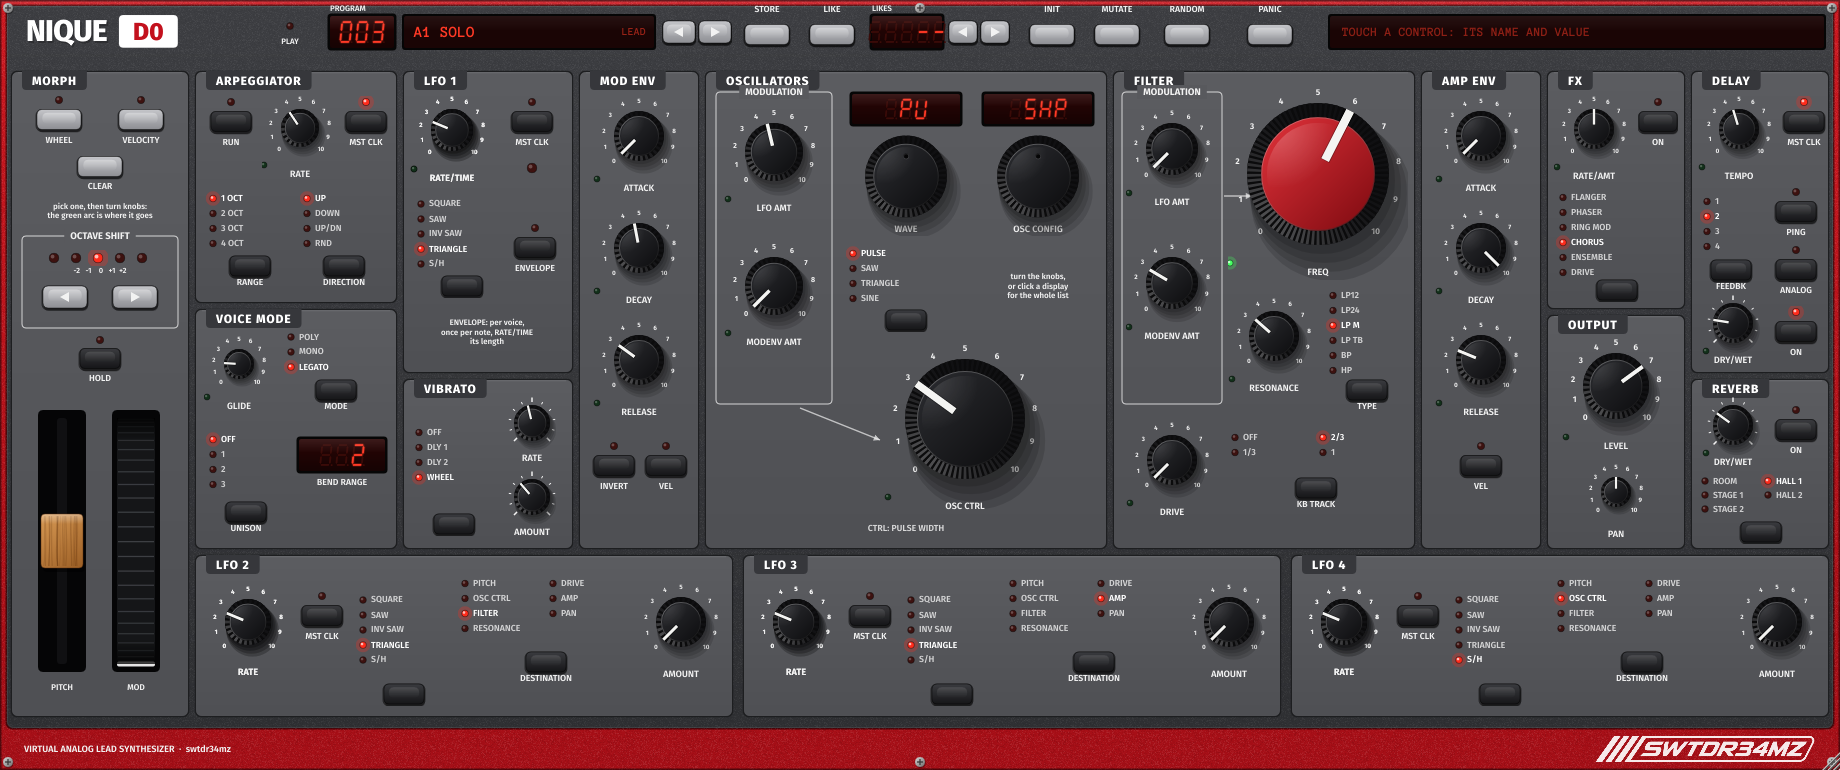
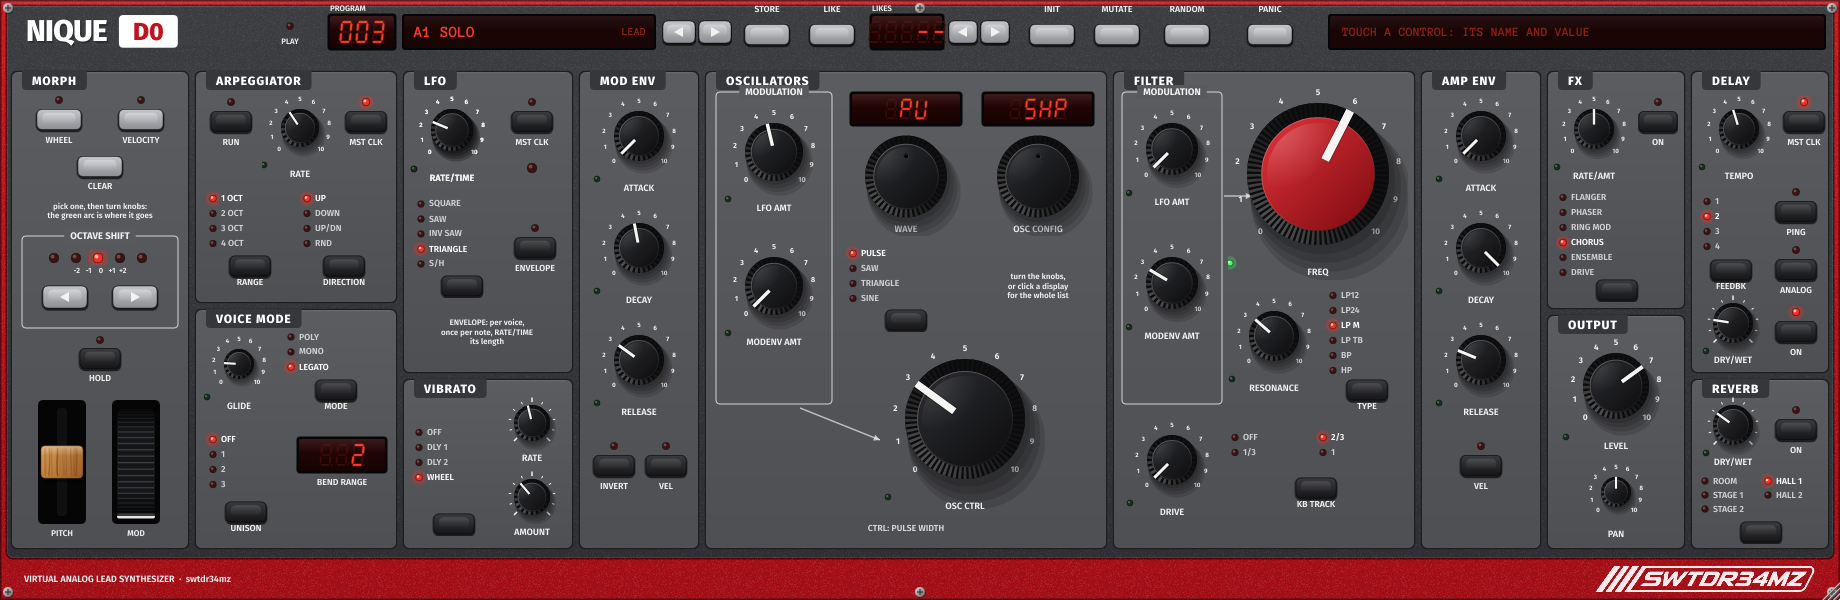
One LFO again, as on the instrument
LFO 2, 3, 4 and their row on the panel are gone (Tom's call); the panel is 1840 x 600
again. WOBBLE BASS and MOVING PAD now move the filter with the LFO.

Claude-Session: https://claude.ai/code/session_019gwqiLx9vhUv2R9E4RVmAS

diff --git a/dsp/engine.cpp b/dsp/engine.cpp
@@ -178,11 +178,6 @@ struct Impl {
     /* the LFO, the vibrato */
     float lfoPh = 0.0f, lfoSH = 0.5f, vibPh = 0.0f;
     float lfoU[BLOCK * MAXOS] = {}, lfoB[BLOCK * MAXOS] = {};
-    /* LFO 2, 3, 4: their sums at each destination (PITCH, OSC CTRL, FILTER, RESONANCE, DRIVE, AMP, PAN) */
-    static constexpr int NDEST = 7;
-    float lxPh[3] = {0.0f, 0.33f, 0.66f}, lxSH[3] = {0.5f, 0.5f, 0.5f};
-    float dest[NDEST][BLOCK * MAXOS] = {};
-    bool destUsed[NDEST] = {};
     Rng rng;
 
     /* the buffers */
@@ -603,49 +598,6 @@ struct Impl {
         }
         mLfo = lfoU[m - 1];
 
-        /* LFO 2, 3, 4 */
-        for (int d = 0; d < NDEST; d++) {
-            std::fill(dest[d], dest[d] + m, 0.0f);
-            destUsed[d] = false;
-        }
-        for (int n = 0; n < 3; n++) {
-            const int base = L2_RATE + 6 * n;   /* RATE, SYNC, DIV, WAVE, DEST, AMT */
-            float amt = val[base + 5];
-            if (amt <= 0.0001f)
-                continue;
-            int wv = ch(base + 3), ds = std::min(NDEST - 1, std::max(0, ch(base + 4)));
-            float inc;
-            if (sw(base + 1)) {
-                float beats = LFO_DIV_BEATS[std::min(16, std::max(0, ch(base + 2)))];
-                inc = (float)(bpm / 60.0 / beats) / fsI;
-                if (playing) {
-                    double p = ppq / beats;
-                    float want = (float)(p - std::floor(p)), dd = want - lxPh[n];
-                    if (std::fabs(dd) > 0.02f && std::fabs(dd) < 0.98f)
-                        lxPh[n] = want;
-                }
-            } else
-                inc = map::lfoHz(val[base]) / fsI;
-            destUsed[ds] = true;
-            float *o = dest[ds];
-            for (int i = 0; i < m; i++) {
-                float &ph = lxPh[n];
-                ph += inc;
-                if (ph >= 1.0f) {
-                    ph -= std::floor(ph);
-                    lxSH[n] = rng.uni();
-                }
-                float u;
-                switch (wv) {
-                case 0: u = ph < 0.5f ? 1.0f : 0.0f; break;
-                case 1: u = ph; break;
-                case 2: u = 1.0f - ph; break;
-                case 3: u = ph < 0.5f ? 2.0f * ph : 2.0f - 2.0f * ph; break;
-                default: u = lxSH[n]; break;
-                }
-                o[i] += amt * (2.0f * u - 1.0f);
-            }
-        }
         vibPh += map::vibHz(val[VIB_RATE]) * dtBlock;
         vibPh -= std::floor(vibPh);
 
@@ -827,13 +779,12 @@ struct Impl {
         fLfo = fLfo * fLfo * 6.0f;
         float res = eff(FLT_RES, vel), drive = eff(FLT_DRIVE, vel);
         const float cutMax = std::log2(0.44f * fs), cutMin = std::log2(14.0f);
-        float kSvf = 2.0f * (1.0f - 0.985f * res);
-        float kLad = ft == 2 ? 4.15f * res : 3.95f * res;
+        const float kSvf = 2.0f * (1.0f - 0.985f * res);
+        const float kLad = ft == 2 ? 4.15f * res : 3.95f * res;
         float lvl = map::level(eff(OUT_LEVEL, vel));
         float velGain = sw(AENV_VEL) ? 0.12f + 0.88f * std::pow(vel, 1.3f) : 1.0f;
         float gainL = 0.42f * lvl * velGain * x.gl, gainR = 0.42f * lvl * velGain * x.gr;
         float dGain = 1.0f + 9.0f * drive * drive, dComp = (1.0f + drive) / (1.0f + 2.5f * drive);
-        float resNow = res;
 
         float sh = x.lfoSH;
         float *L = osL, *R = osR;
@@ -856,13 +807,11 @@ struct Impl {
             } else
                 lfo = lfoBip ? lfoB[i] : lfoU[i];
 
-            /* LFO 2-4 */
-            const float xPitch = destUsed[0] ? dest[0][i] : 0.0f;
-            const float rfs = destUsed[0] ? fexp2(xPitch * xPitch * (xPitch < 0.0f ? -1.0f : 1.0f)) / fs : 1.0f / fs;
-            float y, c = clampf(ctrl + oLfo * oLfo * lfo + oEnv * menv + (destUsed[1] ? 0.5f * dest[1][i] : 0.0f), 0.0f, 1.0f);
+            const float rfs = 1.0f / fs;
+            float y, c = clampf(ctrl + oLfo * oLfo * lfo + oEnv * menv, 0.0f, 1.0f);
             switch (kind) {
             case C_PITCH: {
-                float s = map::pitchSemis(clampf(ctrl + (destUsed[1] ? 0.5f * dest[1][i] : 0.0f), 0.0f, 1.0f)) + 24.0f * oLfo * oLfo * lfo + 48.0f * oEnv * oEnv * menv;
+                float s = map::pitchSemis(ctrl) + 24.0f * oLfo * oLfo * lfo + 48.0f * oEnv * oEnv * menv;
                 x.ph1 += fTab * fexp2(s / 12.0f) * rfs;
                 x.ph1 -= std::floor(x.ph1);
                 y = r1(x.ph1);
@@ -898,7 +847,7 @@ struct Impl {
             case C_DETUNE: {
                 x.ph1 += fTab * rfs;
                 x.ph1 -= std::floor(x.ph1);
-                x.ph2 += inc2 * rfs * fs;
+                x.ph2 += inc2;
                 x.ph2 -= std::floor(x.ph2);
                 y = 0.65f * (r1(x.ph1) + r1(x.ph2));
                 break;
@@ -936,14 +885,7 @@ struct Impl {
             }
 
             /* the filter */
-            float cl = clampf(cutBase + fEnv * menv + fLfo * (lfoBip ? 0.5f * (lfo + 1.0f) : lfo) +
-                                  (destUsed[2] ? 4.0f * dest[2][i] : 0.0f), cutMin, cutMax);
-            if (destUsed[3]) {
-                float rr = clampf(res + 0.5f * dest[3][i], 0.0f, 1.0f);
-                kSvf = 2.0f * (1.0f - 0.985f * rr);
-                kLad = ft == 2 ? 4.15f * rr : 3.95f * rr;
-                resNow = rr;
-            }
+            float cl = clampf(cutBase + fEnv * menv + fLfo * (lfoBip ? 0.5f * (lfo + 1.0f) : lfo), cutMin, cutMax);
             float g = ftan(std::min(1.45f, PI * fexp2(cl) / fs));
             float in = y * 0.85f;
             float out;
@@ -973,7 +915,7 @@ struct Impl {
                 float k = kLad;
                 if (ft == 3) {           /* the diode ladder: less resonance down low, never self-oscillating */
                     float t = clampf((cl - 6.3f) / 3.3f, 0.25f, 1.0f);
-                    k = 3.3f * resNow * t;
+                    k = 3.3f * res * t;
                     S -= x.hpz;
                 }
                 float u = (in - k * S) / (1.0f + k * G4);
@@ -1003,22 +945,10 @@ struct Impl {
                         out = y4;
                 }
             }
-            if (destUsed[4]) {
-                float dr = clampf(drive + 0.5f * dest[4][i], 0.0f, 1.0f);
-                if (dr > 0.001f)
-                    out = ftanh(out * (1.0f + 9.0f * dr * dr)) * (1.0f + dr) / (1.0f + 2.5f * dr);
-            } else if (drive > 0.001f)
+            if (drive > 0.001f)
                 out = ftanh(out * dGain) * dComp;
-            float gl = gainL, gr = gainR;
-            if (destUsed[5])                 /* tremolo */
-                out *= clampf(1.0f - 0.5f * std::fabs(dest[5][i]) + 0.5f * dest[5][i], 0.0f, 1.5f);
-            if (destUsed[6]) {
-                float pn = clampf(dest[6][i], -1.0f, 1.0f);
-                gl *= std::min(1.0f, 1.0f - pn);
-                gr *= std::min(1.0f, 1.0f + pn);
-            }
-            L[i] += out * a * gl;
-            R[i] += out * a * gr;
+            L[i] += out * a * gainL;
+            R[i] += out * a * gainR;
         }
         x.inc1 = f0;
         x.cutLog = cutBase;

diff --git a/src/PluginEditor.cpp b/src/PluginEditor.cpp
@@ -209,7 +209,7 @@ NiqueEditor::NiqueEditor(NiqueProcessor &p) : AudioProcessorEditor(&p), proc(p)
     tool("PANIC", [this](const ModifierKeys &) { proc.panicRequest = true; }, 1238, 64);
 
     /* ------------------------------------------------------- MORPH, the octave, HOLD, the wheels --- */
-    section({12, 72, 176, 644}, "MORPH");
+    section({12, 72, 176, 476}, "MORPH");
     add(new ActionKey("WHEEL", [this](const ModifierKeys &) { ui.morph = ui.morph == 1 ? 0 : 1; page.repaint(); },
                       [this] { return ui.morph == 1 ? 1.0f : 0.0f; }), {24, 94, 70, 54});
     add(new ActionKey("VELOCITY", [this](const ModifierKeys &) { ui.morph = ui.morph == 2 ? 0 : 2; page.repaint(); },
@@ -231,10 +231,10 @@ NiqueEditor::NiqueEditor(NiqueProcessor &p) : AudioProcessorEditor(&p), proc(p)
     add(new ActionKey("<", [octStep](const ModifierKeys &) { octStep(-1); }), {40, 282, 50, 30});
     add(new ActionKey(">", [octStep](const ModifierKeys &) { octStep(1); }), {110, 282, 50, 30});
     key("hold", "HOLD", {70, 334, 60, 52});
-    add(new Wheel(true, [this] { return proc.bendPos.load(); }, [this](float v) { proc.uiBend = v; }), {38, 410, 48, 262});
-    add(new Wheel(false, [this] { return proc.wheelPos.load(); }, [this](float v) { proc.uiWheel = v; }), {112, 410, 48, 262});
-    text({30, 680, 64, 14}, "PITCH", 10.0f);
-    text({104, 680, 64, 14}, "MOD", 10.0f);
+    add(new Wheel(true, [this] { return proc.bendPos.load(); }, [this](float v) { proc.uiBend = v; }), {38, 400, 48, 124});
+    add(new Wheel(false, [this] { return proc.wheelPos.load(); }, [this](float v) { proc.uiWheel = v; }), {112, 400, 48, 124});
+    text({30, 526, 64, 14}, "PITCH", 10.0f);
+    text({104, 526, 64, 14}, "MOD", 10.0f);
 
     /* ------------------------------------------------------------------------- ARPEGGIATOR --- */
     section({196, 72, 200, 230}, "ARPEGGIATOR");
@@ -261,7 +261,7 @@ NiqueEditor::NiqueEditor(NiqueProcessor &p) : AudioProcessorEditor(&p), proc(p)
     }
 
     /* --------------------------------------------------------------------------------- LFO --- */
-    section({404, 72, 168, 300}, "LFO 1");
+    section({404, 72, 168, 300}, "LFO");
     auto *lfoRate = knob("lfo_rate", "RATE/TIME", {410, 90, 84, 96});
     auto *lfoDiv = knob("lfo_div", "RATE/TIME", {410, 90, 84, 96});
     sync(lfoRate, lfoDiv, LFO_SYNC);
@@ -381,22 +381,6 @@ NiqueEditor::NiqueEditor(NiqueProcessor &p) : AudioProcessorEditor(&p), proc(p)
         auto *rt = sel("rev_type", {"ROOM", "STAGE 1", "STAGE 2", "HALL 1", "HALL 2"}, {1698, 474, 126, 70});
         rt->twoColumns = true;
         rt->rowH = 14;
-    }
-
-    /* ------------------------------------------------------------------------- LFO 2, 3, 4 --- */
-    for (int n = 2; n <= 4; n++) {
-        const int x = 196 + (n - 2) * 548, y = 556;
-        auto id = [n](const char *what) { return String("l") + String(n) + "_" + what; };
-        section({x, y, 536, 160}, "LFO " + String(n));
-        auto *fr = add(new Knob(a, id("rate"), "RATE", ui), R(x + 10, y + 24, 84, 100));
-        auto *dv = add(new Knob(a, id("div"), "RATE", ui), R(x + 10, y + 24, 84, 100));
-        sync(fr, dv, L2_RATE + 6 * (n - 2) + 1);
-        key(id("sync").toRawUTF8(), "MST CLK", {x + 98, y + 34, 56, 54});
-        sel(id("wave").toRawUTF8(), {"SQUARE", "SAW", "INV SAW", "TRIANGLE", "S/H"}, {x + 160, y + 22, 96, 128});
-        auto *ds = sel(id("dest").toRawUTF8(), {"PITCH", "OSC CTRL", "FILTER", "RESONANCE", "DRIVE", "AMP", "PAN"},
-                       {x + 262, y + 20, 176, 112}, "DESTINATION");
-        ds->twoColumns = true;
-        add(new Knob(a, id("amt"), "AMOUNT", ui), R(x + 440, y + 22, 90, 104));
     }
 
     for (float sx : {8.0f, (float)W * 0.5f, (float)W - 8.0f})   /* the panel's screws */

diff --git a/tests/engine_tests.cpp b/tests/engine_tests.cpp
@@ -303,45 +303,6 @@ int main(int argc, char **argv)
         CHECK(e.voicesSounding() == 1, "mono: %d voices", e.voicesSounding());
     }
 
-    /* LFO 2, 3, 4: every waveform to every destination moves the sound */
-    {
-        int still = 0;
-        for (int n = 0; n < 3; n++)
-            for (int d = 0; d < 7; d++) {
-                float peak[2];
-                std::vector<float> outs[2];
-                for (int on = 0; on < 2; on++) {
-                    Engine e;
-                    e.prepare(48000);
-                    initSound(v.data());
-                    v[FLT_FREQ] = 0.55f;
-                    v[FLT_RES] = 0.4f;
-                    v[FLT_DRIVE] = 0.3f;
-                    const int b = L2_RATE + 6 * n;
-                    v[(size_t)b] = 0.55f;
-                    v[(size_t)(b + 3)] = (float)((n + d) % 5);
-                    v[(size_t)(b + 4)] = (float)d;
-                    v[(size_t)(b + 5)] = on ? 0.8f : 0.0f;
-                    load(e, v.data());
-                    e.noteOn(52, 0.8f);
-                    std::vector<float> r;
-                    Stats st = run(e, 24000, 256, &outs[on], &r);
-                    CHECK(st.finite, "lfo %d dest %d: not finite", n + 2, d);
-                    peak[on] = st.peak;
-                    if (d == 6)          /* (pan: the right side tells) */
-                        outs[on] = r;
-                }
-                double diff = 0.0;
-                for (size_t i = 0; i < outs[0].size(); i++)
-                    diff += std::fabs(outs[0][i] - outs[1][i]);
-                if (diff < 1.0 || peak[1] > 2.0f) {
-                    std::printf("  lfo %d dest %d: diff %.3f peak %.3f\n", n + 2, d, diff, peak[1]);
-                    still++;
-                }
-            }
-        CHECK(still == 0, "%d LFO destinations do nothing", still);
-    }
-
     /* the morph: the wheel opens the filter */
     {
         float rms[2];

diff --git a/tools/gen_params.py b/tools/gen_params.py
@@ -75,7 +75,6 @@ CH("CH_DLY_DIV", ["1/2", "1/4", "1/8", "1/16", "1/32", "1/64", "1/4D", "1/8D", "
                   "1/2T", "1/4T", "1/8T", "1/16T", "1/32T", "1/4S", "1/8S", "1/16S"])
 CH("CH_FEEDBACK", ["1", "2", "3", "4"])
 CH("CH_REVERB", ["ROOM", "STAGE 1", "STAGE 2", "HALL 1", "HALL 2"])
-CH("CH_LFO_DEST", ["PITCH", "OSC CTRL", "FILTER", "RESONANCE", "DRIVE", "AMP", "PAN"])
 
 # ------------------------------------------------------------------------------------------------ parameters ---
 P("OUT_LEVEL", "out_level", "OUTPUT LEVEL", "Level", default=0.7)
@@ -172,17 +171,6 @@ for e, n, s in MORPH:
 for e, n, s in MORPH:
     if e not in WHEEL_ONLY:
         P("MV_" + e, "mv_" + e.lower(), "MORPH VELOCITY " + n, "MV " + s, "K_BIP", default=0.5)
-
-# LFO 2, 3, 4: each its own rate (or the host's tempo), waveform, destination and amount (all bipolar)
-LDEF = {2: (0.42, 3, 2), 3: (0.3, 3, 5), 4: (0.55, 4, 1)}
-for n in (2, 3, 4):
-    rate, wave, dest = LDEF[n]
-    P("L%d_RATE" % n, "l%d_rate" % n, "LFO %d RATE" % n, "LFO%d Rate" % n, default=rate)
-    P("L%d_SYNC" % n, "l%d_sync" % n, "LFO %d MST CLK" % n, "LFO%d MstClk" % n, "K_SW", default=0)
-    P("L%d_DIV" % n, "l%d_div" % n, "LFO %d CLOCK DIV" % n, "LFO%d Div" % n, "K_CH", "CH_LFO_DIV", default=4)
-    P("L%d_WAVE" % n, "l%d_wave" % n, "LFO %d WAVEFORM" % n, "LFO%d Wave" % n, "K_CH", "CH_LFO_WAVE", default=wave)
-    P("L%d_DEST" % n, "l%d_dest" % n, "LFO %d DESTINATION" % n, "LFO%d Dest" % n, "K_CH", "CH_LFO_DEST", default=dest)
-    P("L%d_AMT" % n, "l%d_amt" % n, "LFO %d AMOUNT" % n, "LFO%d Amount" % n, default=0.0)
 
 # -------------------------------------------------------------------------------------------------- output ---
 ids = [r[1] for r in rows]

diff --git a/dsp/presets.cpp b/dsp/presets.cpp
@@ -78,7 +78,7 @@ const Preset PRESETS[] = {
      "osc_wave=O1 osc_config=PITCH flt_type=LP12 flt_freq=0.5 aenv_r=0.1 voice_mode=MONO"},
     {"BASS", "WOBBLE BASS",
      "osc_wave=SAW osc_config=DETUNE osc_ctrl=0.14 flt_type=LP_M flt_freq=0.3 flt_res=0.45 flt_menv=0.1 "
-     "flt_drive=0.35 voice_mode=LEGATO glide=0.1 l2_sync=on l2_div=1/8 l2_wave=TRIANGLE l2_dest=FILTER l2_amt=0.7 "
+     "flt_drive=0.35 voice_mode=LEGATO glide=0.1 flt_lfo=0.6 lfo_sync=on lfo_div=1/8 lfo_wave=TRIANGLE "
      "mw_flt_drive=0.8"},
     /* ------------------------------------------------------------------------------------------------- pads */
     {"PAD", "STRING PAD",
@@ -98,8 +98,7 @@ const Preset PRESETS[] = {
      "rev_mix=0.4"},
     {"PAD", "MOVING PAD",
      "osc_wave=A4 osc_config=DETUNE osc_ctrl=0.24 flt_type=LP24 flt_freq=0.5 flt_res=0.3 aenv_a=0.55 aenv_r=0.62 "
-     "l2_rate=0.2 l2_wave=TRIANGLE l2_dest=FILTER l2_amt=0.35 l3_rate=0.32 l3_wave=TRIANGLE l3_dest=PAN "
-     "l3_amt=0.7 l4_rate=0.14 l4_wave=S/H l4_dest=OSC_CTRL l4_amt=0.3 fx_on=on fx_type=CHORUS fx_amt=0.5 "
+     "flt_lfo=0.3 lfo_rate=0.2 osc_lfo=0.25 fx_on=on fx_type=CHORUS fx_amt=0.5 "
      "rev_on=on rev_type=HALL_2 rev_mix=0.4"},
     {"PAD", "VOX PAD",
      "osc_wave=F3 osc_config=DETUNE osc_ctrl=0.22 flt_type=LP12 flt_freq=0.7 aenv_a=0.55 aenv_r=0.6 "

diff --git a/src/PluginEditor.h b/src/PluginEditor.h
@@ -1,6 +1,6 @@
 /* SPDX-License-Identifier: MPL-2.0
  * Copyright (C) 2026 swtdr34mz (NIQUE D0) */
-/* The panel: every section laid out on a page of 1840 x 770, scaled to the window. On top the logo, the program,
+/* The panel: every section laid out on a page of 1840 x 600, scaled to the window. On top the logo, the program,
  * LIKE, the sound's tools and the readout of the control in hand; on the left the morphs, the octave, HOLD, the
  * pitch stick and the mod wheel. */
 #pragma once
@@ -10,7 +10,7 @@
 class NiqueEditor : public juce::AudioProcessorEditor, private juce::Timer
 {
 public:
-    static constexpr int W = 1840, H = 770;
+    static constexpr int W = 1840, H = 600;
     explicit NiqueEditor(NiqueProcessor &);
     ~NiqueEditor() override;
     void resized() override;

diff --git a/README.md b/README.md
@@ -18,10 +18,8 @@ One synth part with 24 voices (in a DAW: one instance per part, instead of the A
   low), BP, HP; FREQ, RESONANCE, DRIVE, KB TRACK (off, 1/3, 2/3, 1), LFO AMT, MODENV AMT.
 - **MOD ENV / AMP ENV:** attack, decay, release; the decay at its end holds (ASR). INVERT and VEL for the mod
   envelope, VEL for the amp envelope.
-- **LFO 1:** square, saw, inverted saw, triangle, S/H; MST CLK (the DAW's tempo, 4 bars to 1/64, triplets);
-  ENVELOPE: once per note, per voice. It drives the oscillators' and the filter's LFO AMT.
-- **LFO 2, 3, 4:** each with its own RATE (or MST CLK), waveform, DESTINATION (PITCH, OSC CTRL, FILTER, RESONANCE,
-  DRIVE, AMP, PAN) and AMOUNT.
+- **LFO:** square, saw, inverted saw, triangle, S/H; MST CLK (the DAW's tempo, 4 bars to 1/64, triplets);
+  ENVELOPE: once per note, per voice. Its amount is set in the oscillators (LFO AMT) and the filter (LFO AMT).
 - **VOICE MODE:** poly, mono, legato, UNISON 1–3, GLIDE, BEND RANGE (to 48 semitones, or +2/-12, +2/-24).
   **VIBRATO:** DLY 1, DLY 2 (starting after 0.5 / 1 s) or WHEEL, its RATE and AMOUNT.
 - **ARPEGGIATOR:** RUN, RATE (or MST CLK: 1/2 to 1/32, triplets), RANGE 1–4 octaves, up, down, up/down, random.
